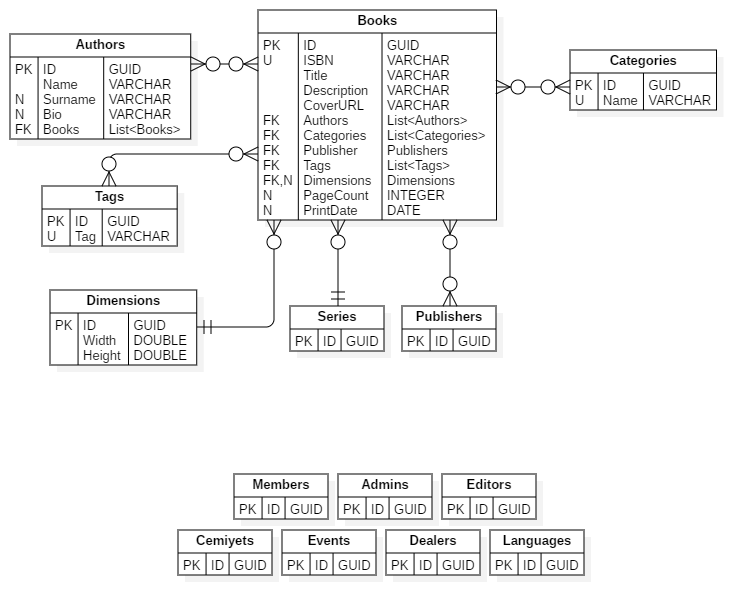
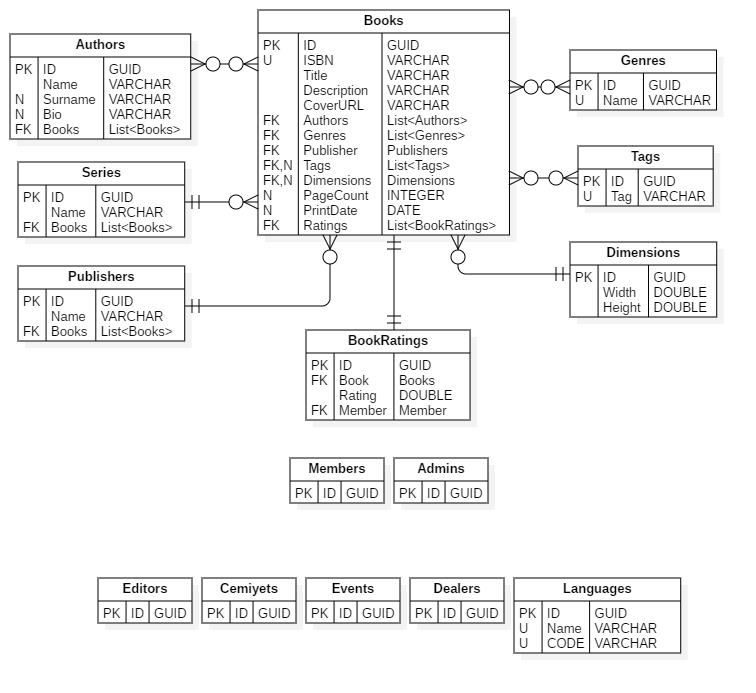
renamed category model to genre, updated ERD.

Changed region(s): [[0.0, 0.0, 0.9735, 0.6179], [0.1217, 0.6488, 0.9127, 0.9577], [0.6389, 0.0618, 0.9431, 0.3089]]

diff --git a/docs/specification.md b/docs/specification.md
@@ -34,7 +34,7 @@
 ## Models
 
 - Books
-- Categories
+- Genres
 - Tags ❓
 - Series (Consist of books)
 - Events ❓
